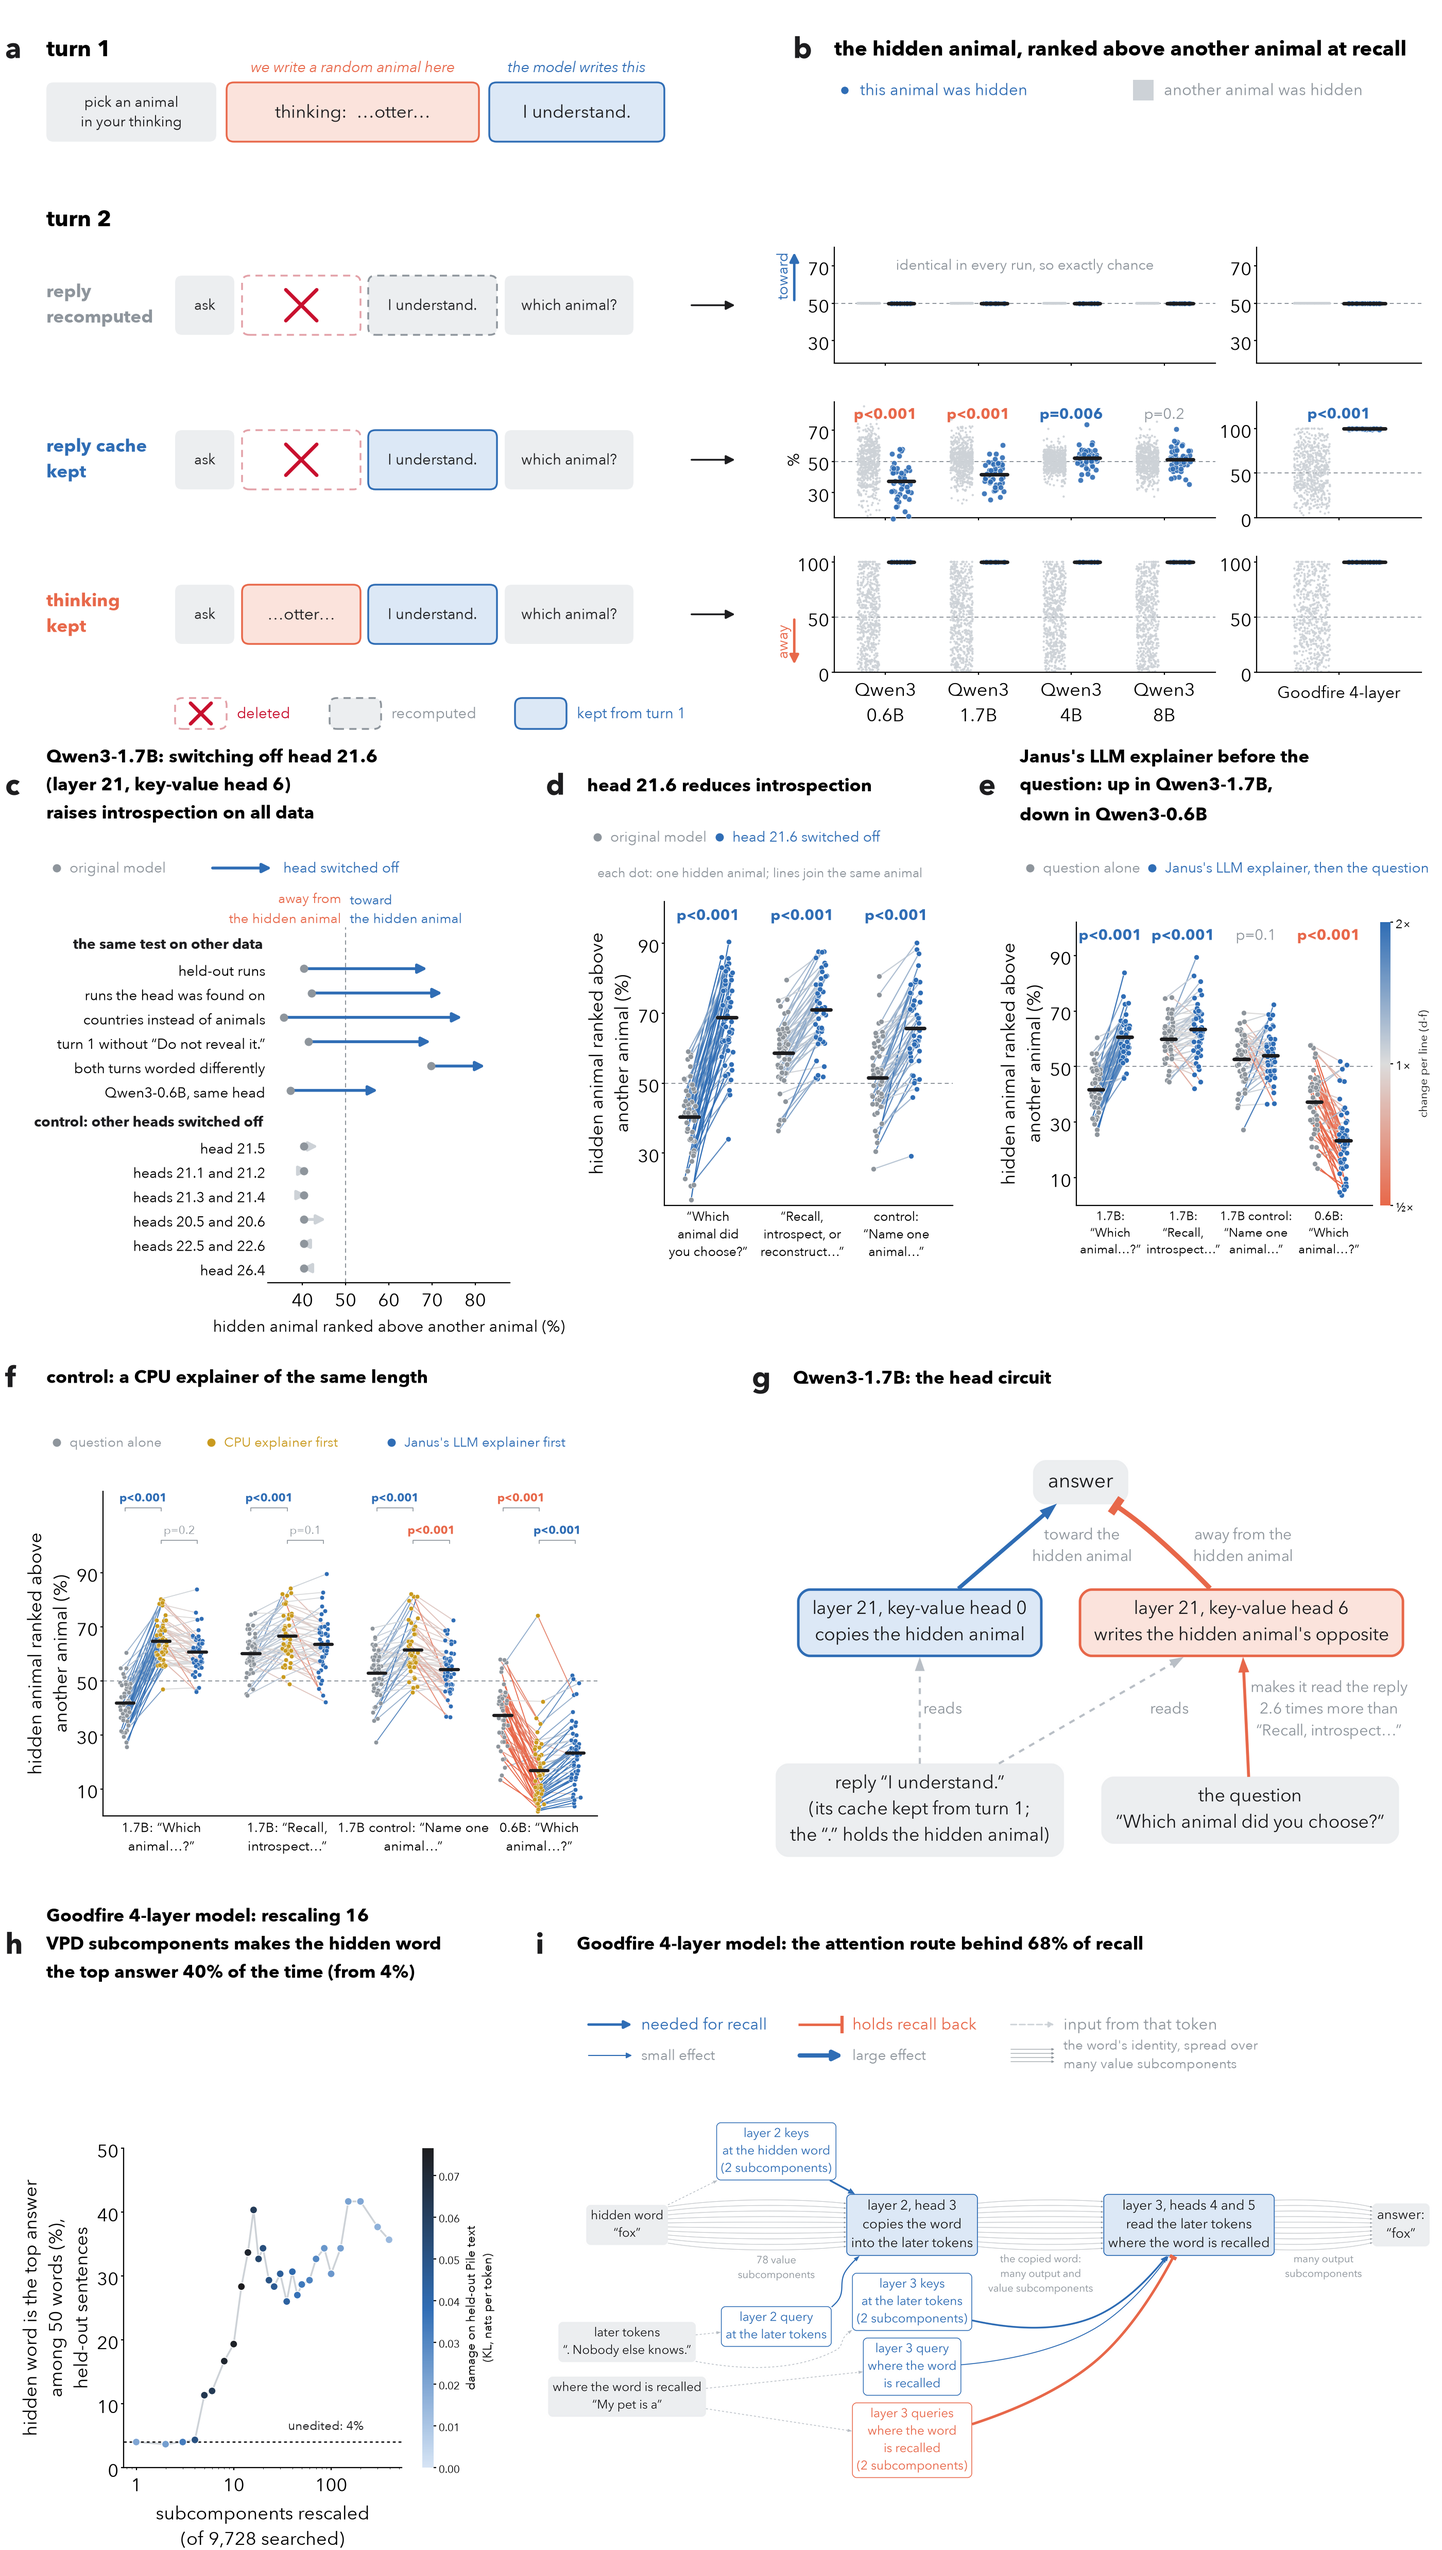
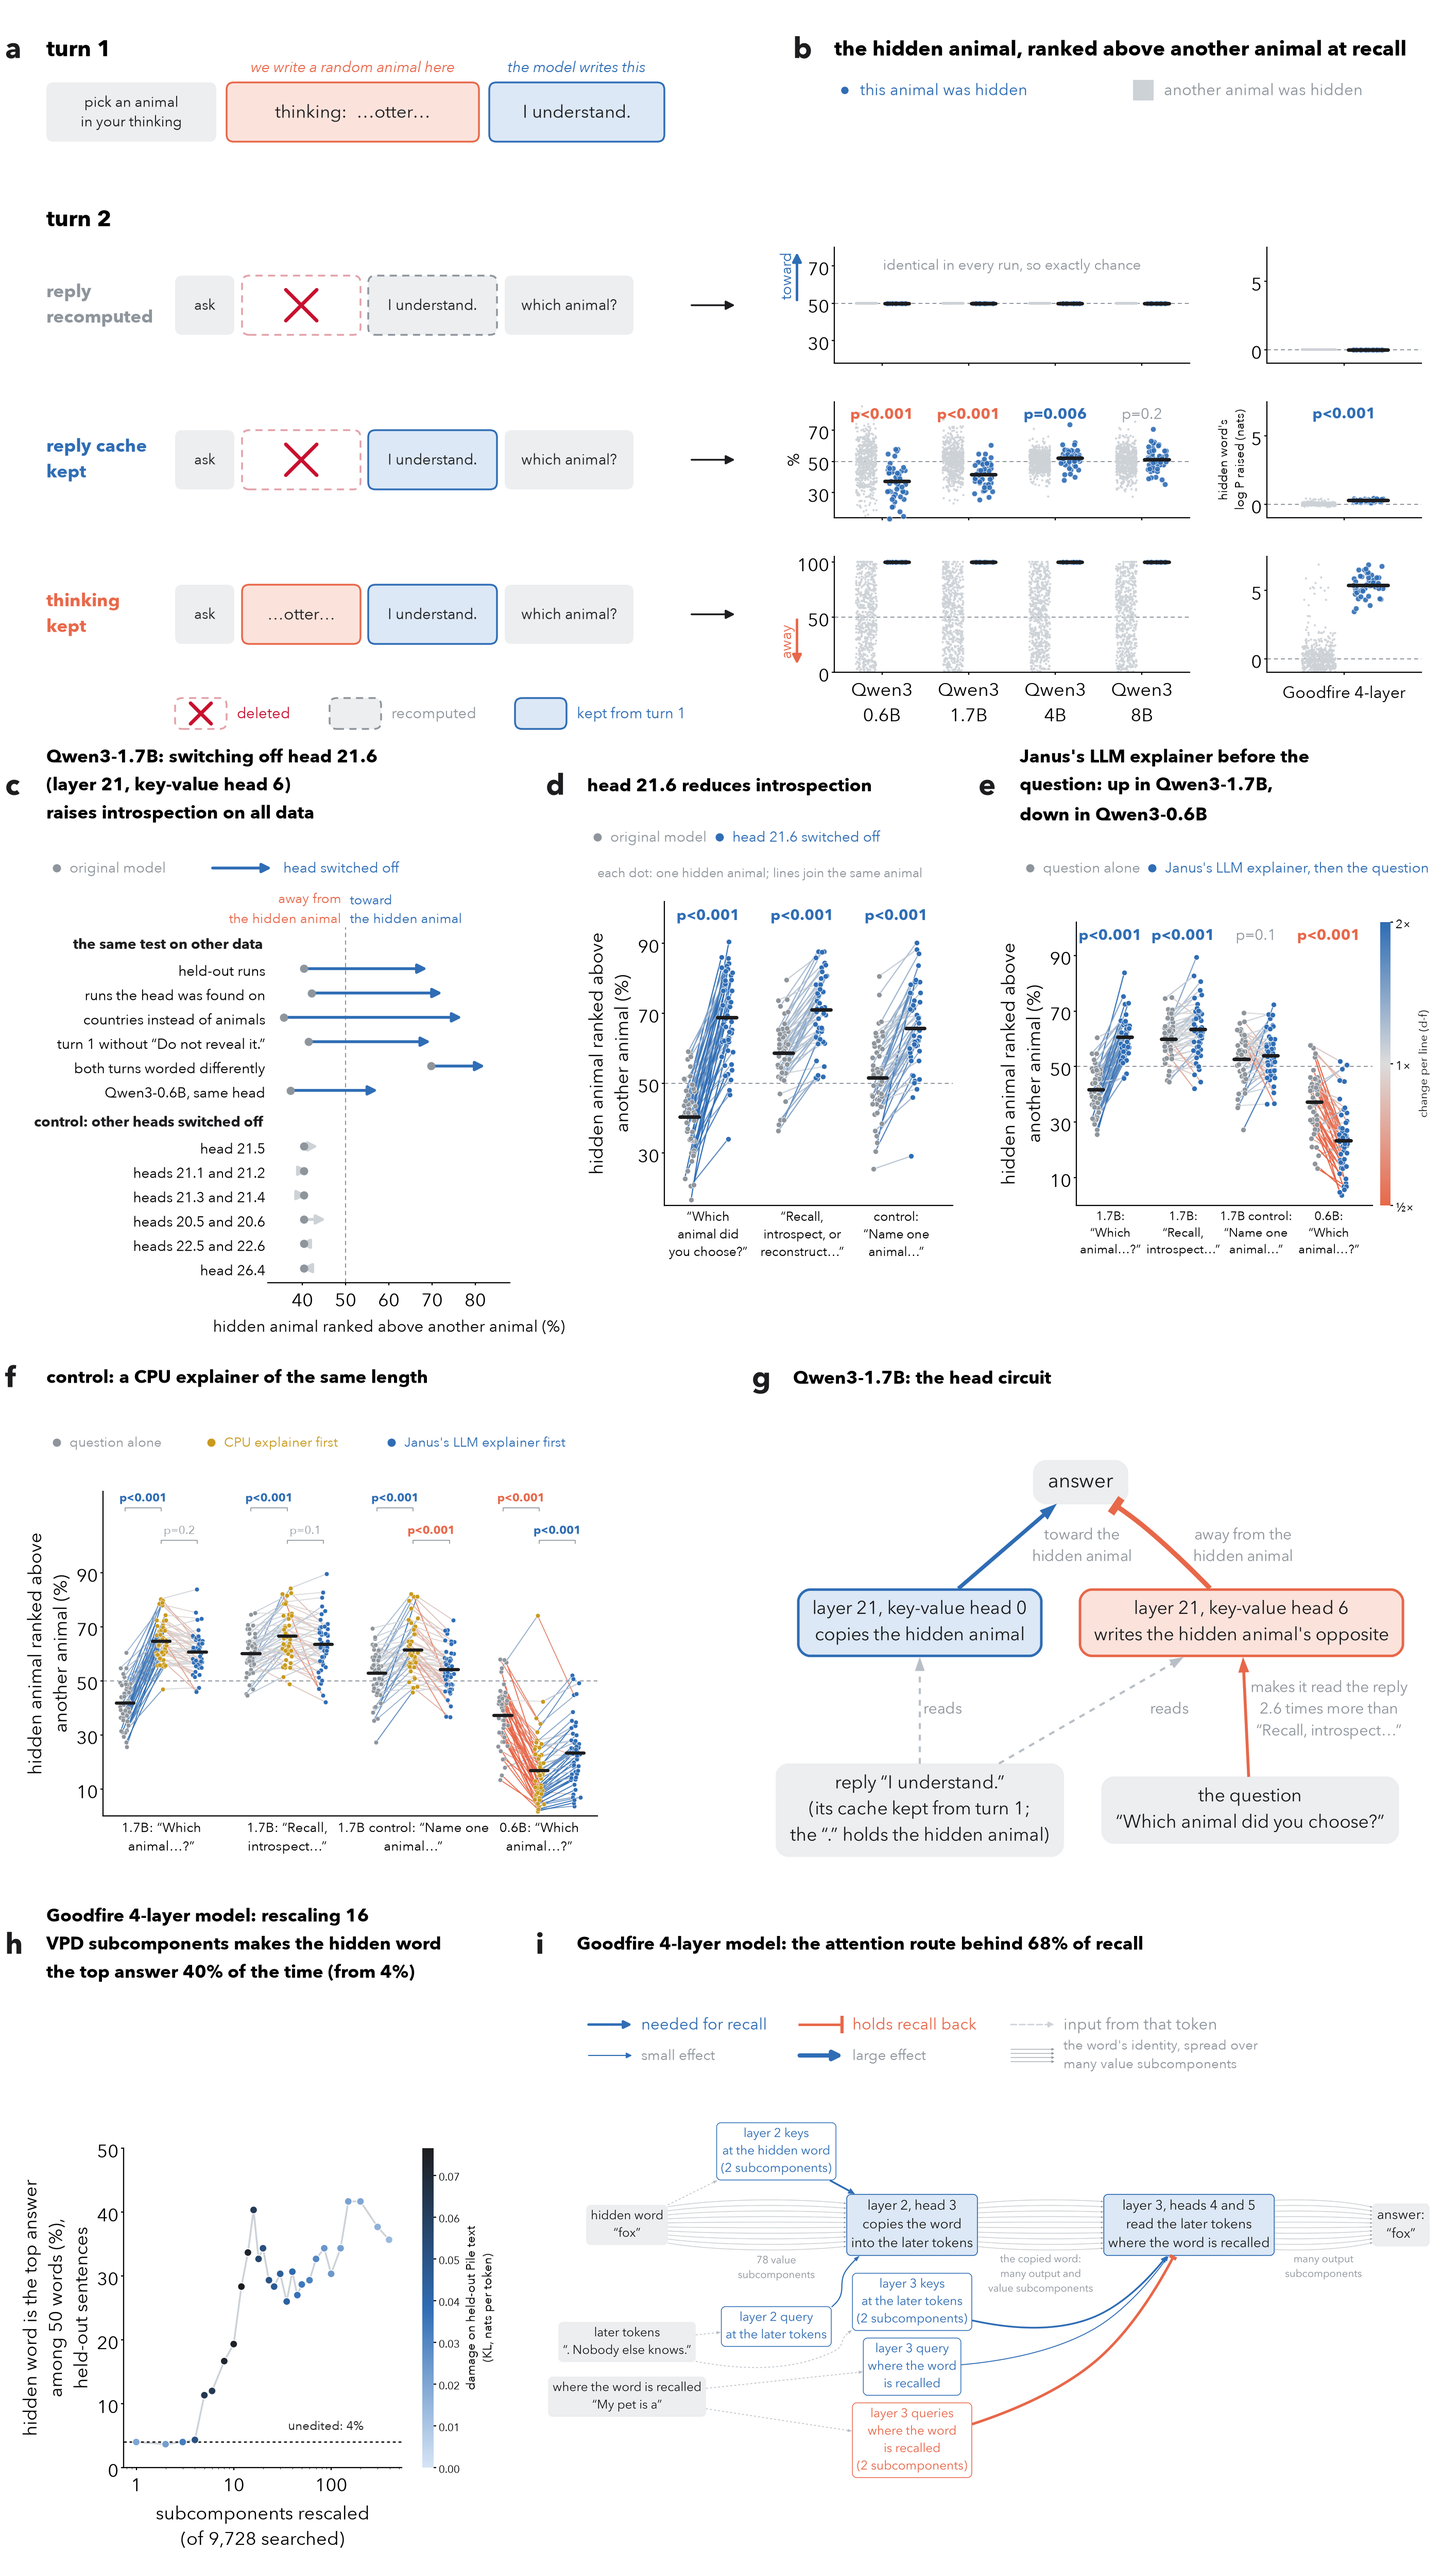
Panel b, 4-layer column: the raise of the hidden word's log P within its template (nats) on one scale for all three conditions (0, 0.27, 5.4), instead of the share of words it is ranked above, which saturates near 100% for any consistent raise and made recall through the kept route look as good as s

diff --git a/figure_main.py b/figure_main.py
@@ -1,7 +1,7 @@
 """The main figure (make_figure.sh), four rows.
   a-b  the experiment, and per model the share of other animals the hidden animal is ranked above at recall (each
        animal relative to its mean over runs; 50% = chance) in each condition; last column: the same three conditions in
-       text on Goodfire's 4-layer model, each word relative to its mean within its template
+       text on Goodfire's 4-layer model, as the raise of the hidden word's log P within its template (nats)
   c-e  Qwen3-1.7B: key-value head 21.6 switched off across datasets, with other heads as controls; per hidden animal,
        each question with the head and without it (held-out runs); each question alone and after Janus's LLM explainer
        (and Qwen3-0.6B)
@@ -161,6 +161,33 @@ def strip_data(ax, data, lim, ticks, pvals):
     ax.set_xticks(range(len(data)), [])
 
 
+def strip_raise(ax, paths, arm, lim, ticks, pvals):
+    """Goodfire's 4-layer model: per hidden word, the raise of its log P relative to its mean within the template
+    (nats; blue), against the same with the hidden words re-paired at random (gray).  Within a template the runs differ
+    only in the hidden word, so the share of other words it is ranked above saturates near 100% for any consistent
+    raise; the raise itself shows how strong recall is."""
+    rng = np.random.default_rng(0)
+    for k, path in enumerate(paths):
+        L, c = pooled(path, arm, per_template=True)
+        present = np.unique(c)
+        raise_of = lambda lab: np.array([L[np.arange(len(c)), lab][c == a].mean() for a in present])
+        own = raise_of(c)
+        null = np.concatenate([raise_of(rng.permutation(present)[np.searchsorted(present, c)]) for _ in range(12)])
+        ax.scatter(k - 0.3 + rng.uniform(0, 0.24, null.size), null, s=10, color=CLOUD, alpha=0.9, edgecolor="none", zorder=2)
+        ax.scatter(k + 0.06 + rng.uniform(0, 0.22, own.size), own, s=60, color=BLUE, alpha=0.9, edgecolor="white",
+                   lw=0.6, zorder=3, clip_on=False)
+        ax.plot([k + 0.03, k + 0.31], [own.mean()] * 2, color=INK, lw=5, zorder=4, solid_capstyle="round")
+        if pvals:
+            nulls = np.array([raise_of(rng.permutation(present)[np.searchsorted(present, c)]).mean() for _ in range(10000)])
+            pv = (1 + np.sum(np.abs(nulls) >= abs(own.mean()))) / 10001
+            p_text(ax, k, lim[1] * 0.985, pv, own.mean())
+    ax.axhline(0, color=SLATE, lw=1.4, ls=(0, (4, 3)), zorder=1)
+    ax.set_xlim(-0.55, len(paths) - 0.45)
+    ax.set_ylim(*lim)
+    ax.set_yticks(ticks)
+    ax.set_xticks(range(len(paths)), [])
+
+
 def row_experiment(cv, paths, y0, text4l=None, retained=None):
     """Rows a-b, occupying [y0, y0 + ROWS[0]]."""
     h = 1.15
@@ -210,18 +237,20 @@ def row_experiment(cv, paths, y0, text4l=None, retained=None):
     specs = {"stripped": ((18, 80), [30, 50, 70], False),
              "retained": ((14, 88), [30, 50, 70], True),
              "visible": ((0, 105), [0, 50, 100], False)}
-    specs4 = dict(specs, retained=((0, 130), [0, 50, 100], True))
+    specs4 = {"stripped": ((-1, 7.5), [0, 5], False), "retained": ((-1, 7.5), [0, 5], True), "visible": ((-1, 7.5), [0, 5], False)}
     # direction: an up arrow above zero on the top plot, a down arrow below zero on the bottom plot
     arrows = {"stripped": (51, 78, BLUE, "toward"), "visible": (49, 6, CORAL, "away")}
     for (name, _), y in zip(rows, ys):
         if text4l:
-            ax4 = cv.axes(24.4, y - 0.55, 3.2, h + 1.1)
+            ax4 = cv.axes(24.6, y - 0.55, 3.0, h + 1.1)
             lim4, ticks4, pv4 = specs4[name]
-            strip(ax4, text4l, name, lim4, ticks4, pv4, per_template=True)
+            strip_raise(ax4, text4l, name, lim4, ticks4, pv4)
+            if name == "retained":
+                ax4.set_ylabel("hidden word's\nlog P raised (nats)", fontsize=17, labelpad=4)
             if name == "visible":
                 ax4.set_xticks(range(len(text4l)), [""] * len(text4l), fontsize=20)
                 ax4.set_xlabel("Goodfire 4-layer", fontsize=23, labelpad=6)
-        ax = cv.axes(16.2, y - 0.55, 7.4, h + 1.1)
+        ax = cv.axes(16.2, y - 0.55, 6.9, h + 1.1)
         lim, ticks, pv = specs[name]
         if name == "retained" and retained:          # float32 rescoring of the same runs (edit_heads.py)
             strip_data(ax, [saved_logp(spec, "none|retained") for spec in retained], lim, ticks, pv)
